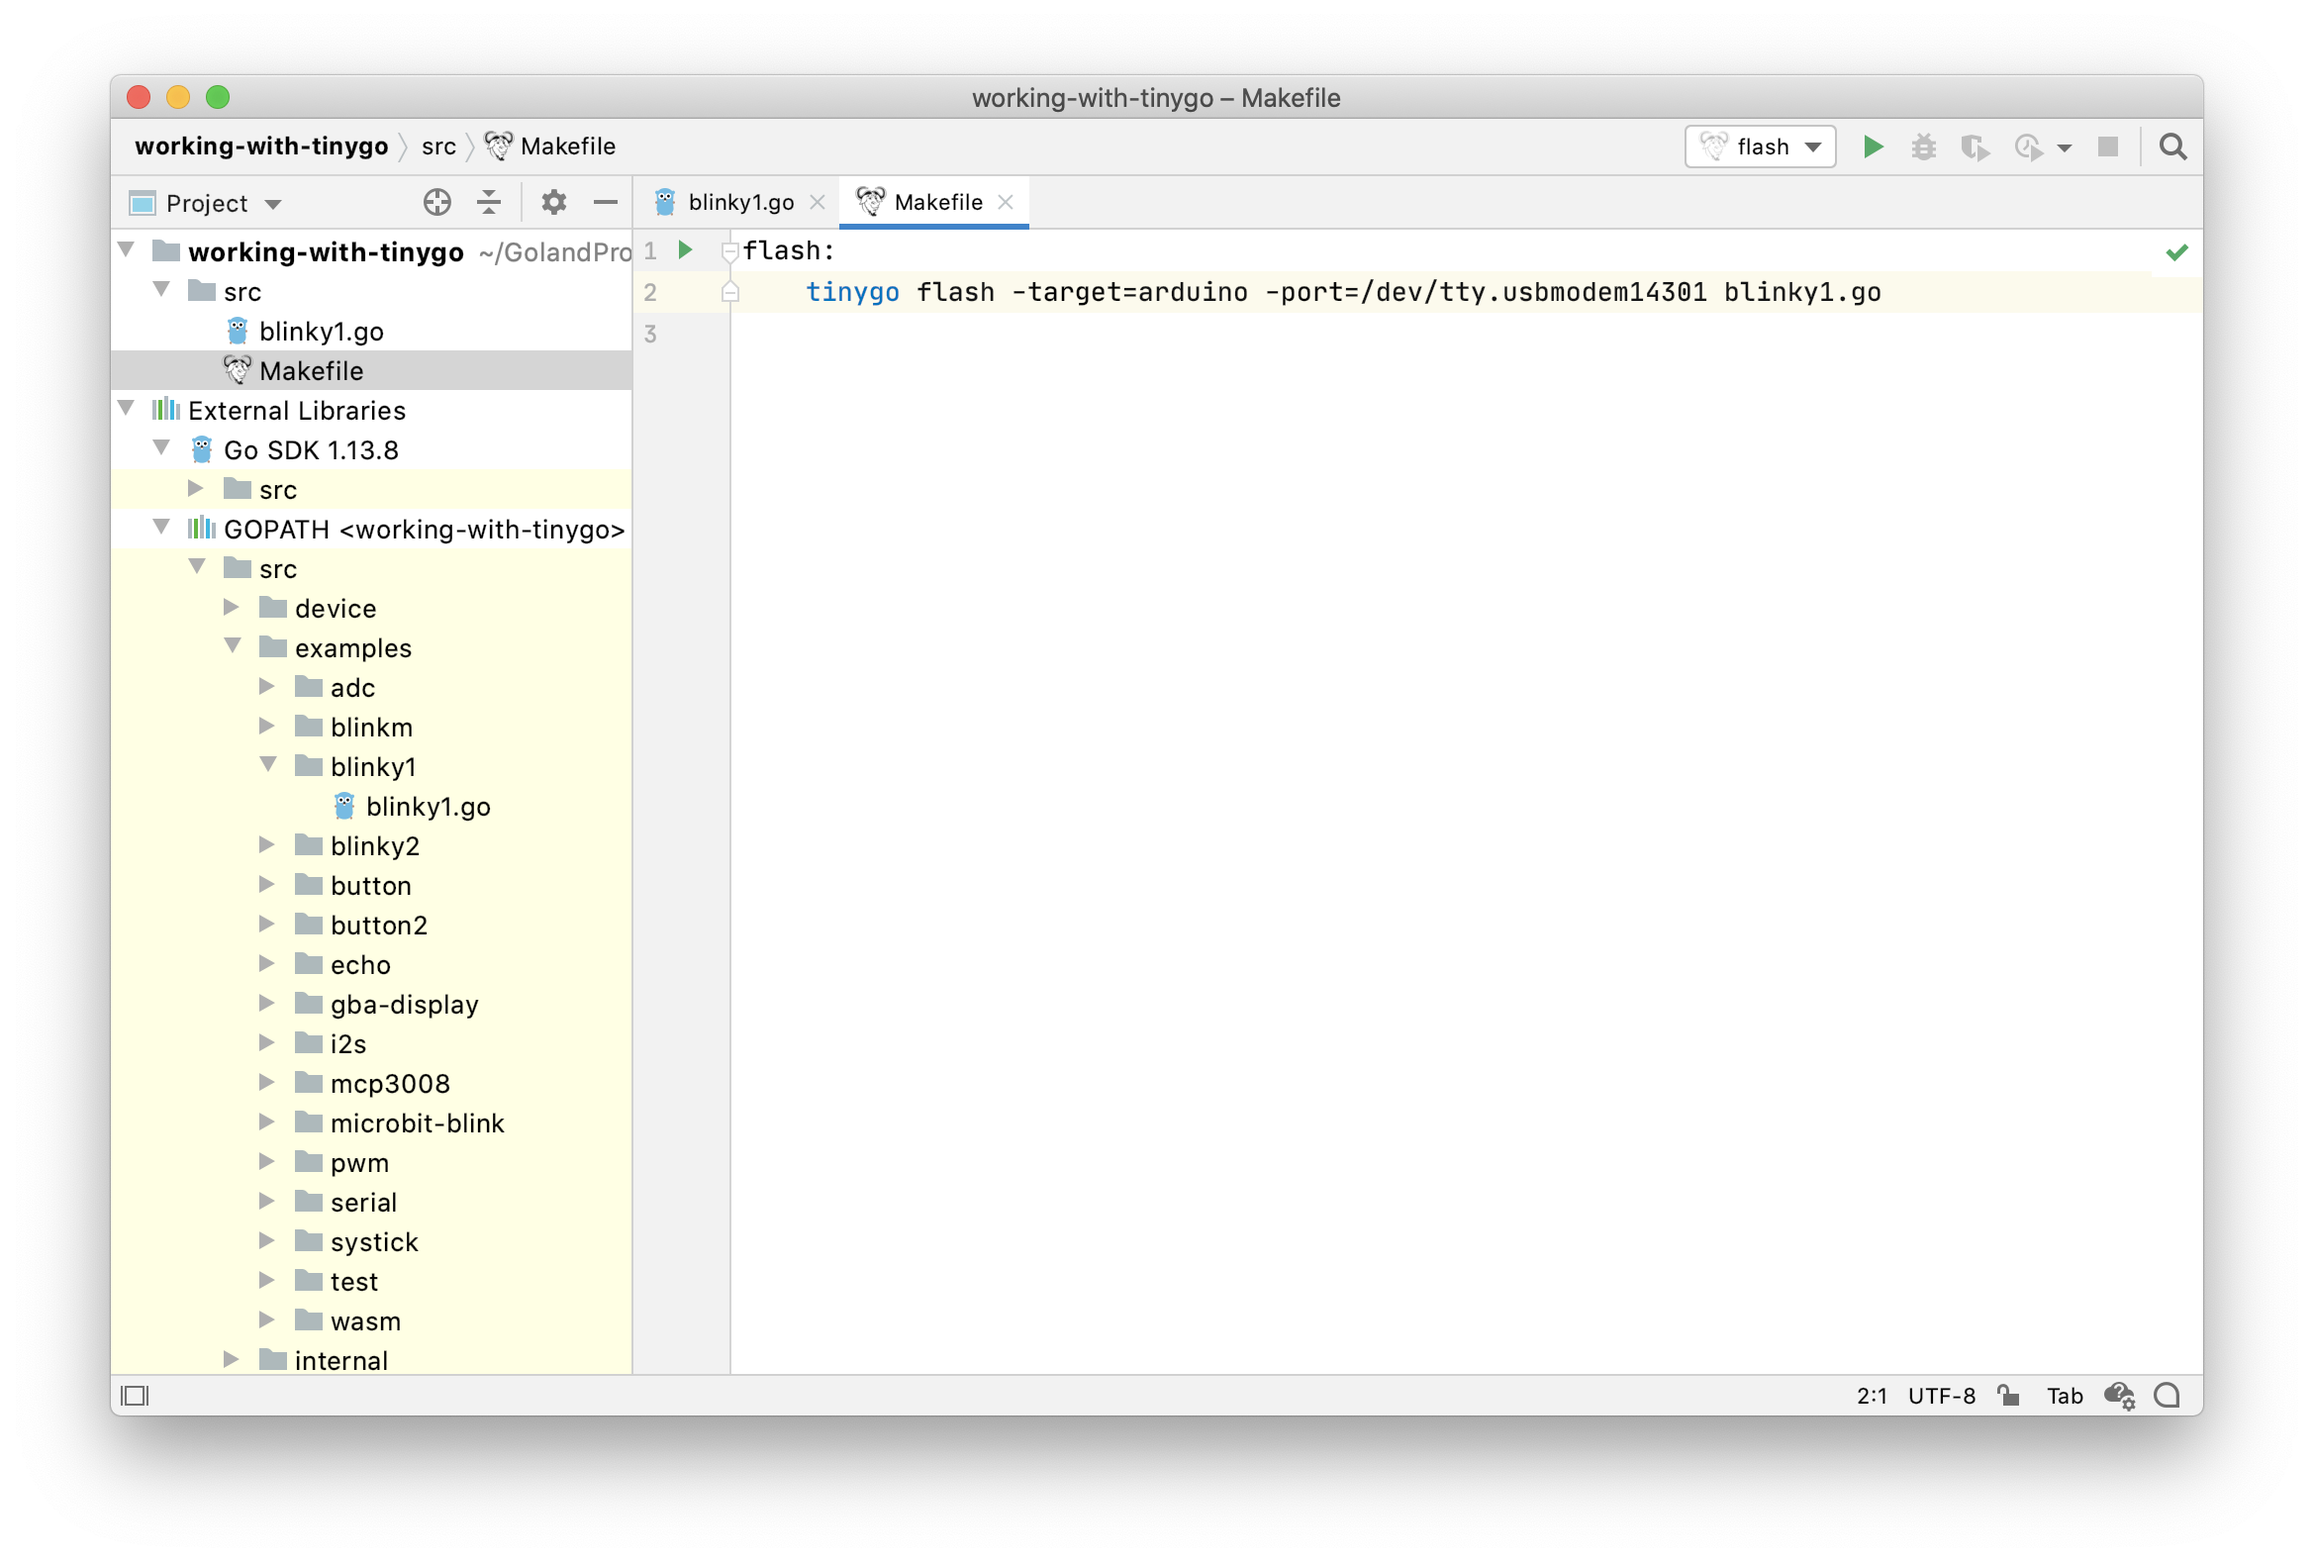
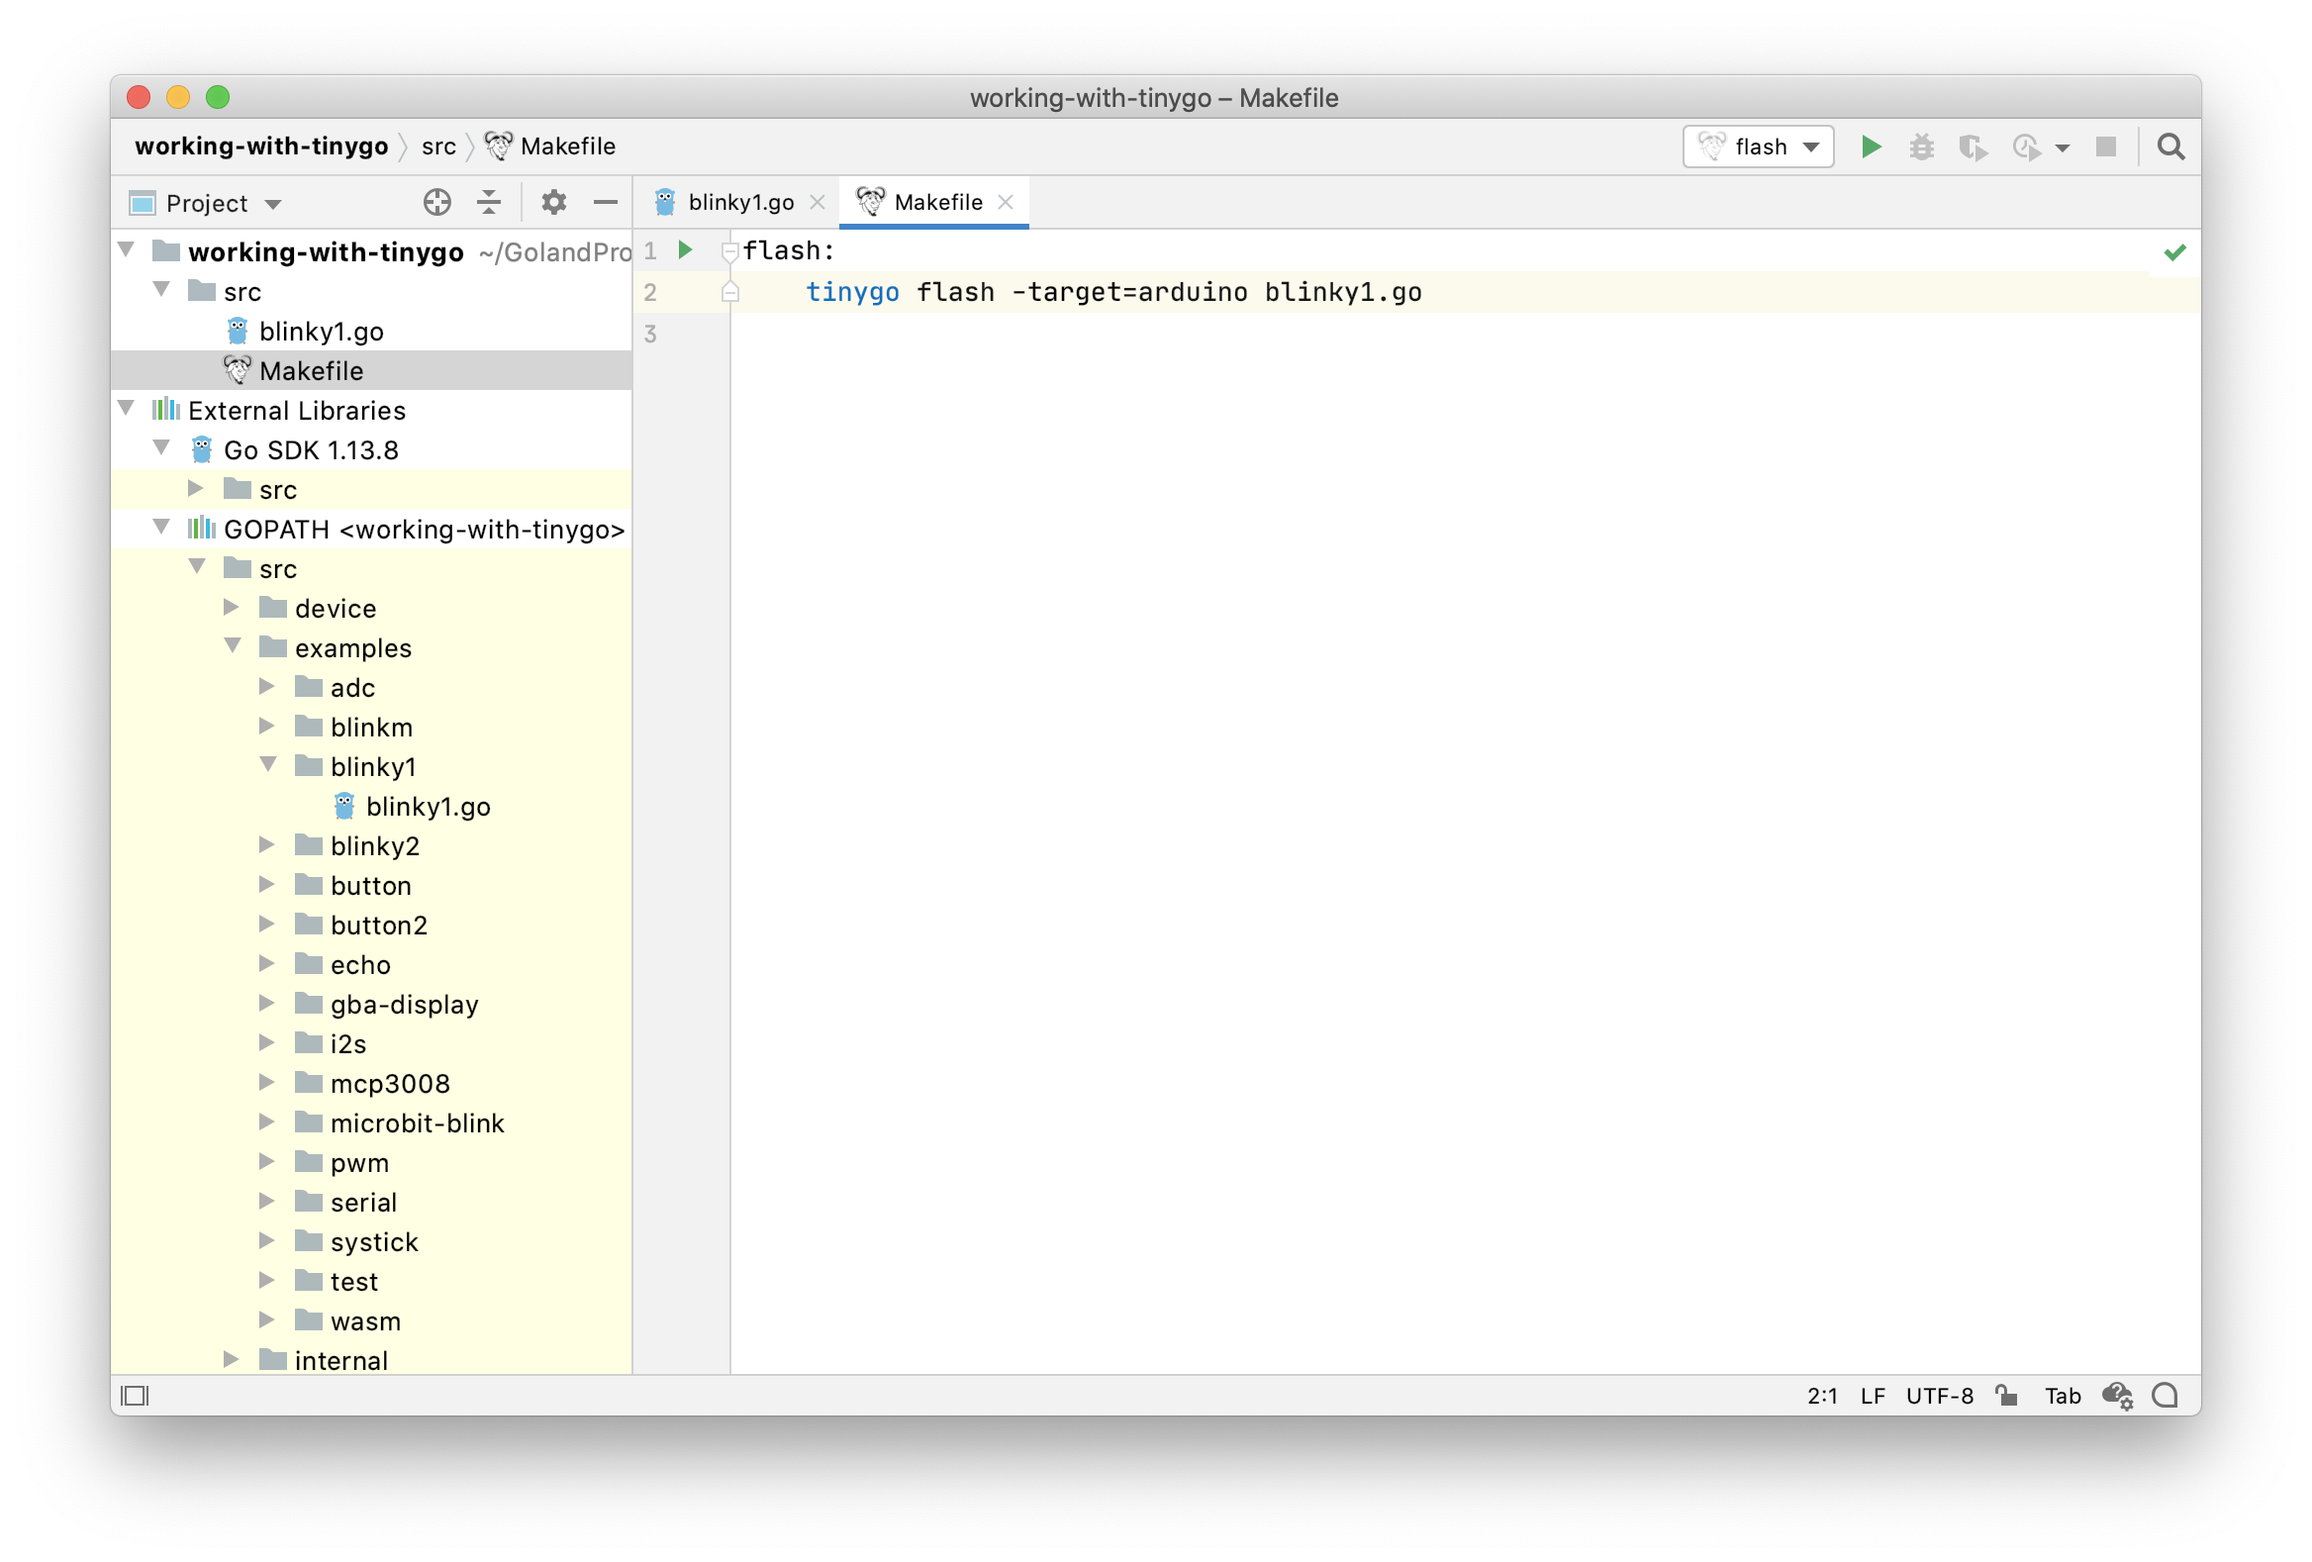
update working-with-tinygo-in-goland post with simplified flash command

diff --git a/content/posts/working-with-tinygo-in-goland.md b/content/posts/working-with-tinygo-in-goland.md
@@ -71,7 +71,7 @@ The code should be green; you should be able to navigate from any reference to i
 
 ```
 flash:
-	tinygo flash -target=arduino -port=/dev/tty.usbmodem14301 blinky1.go
+	tinygo flash -target=arduino blinky1.go
 ```
 
 ![Makefile](/images/working-with-tinygo-in-goland/makefile.png)
